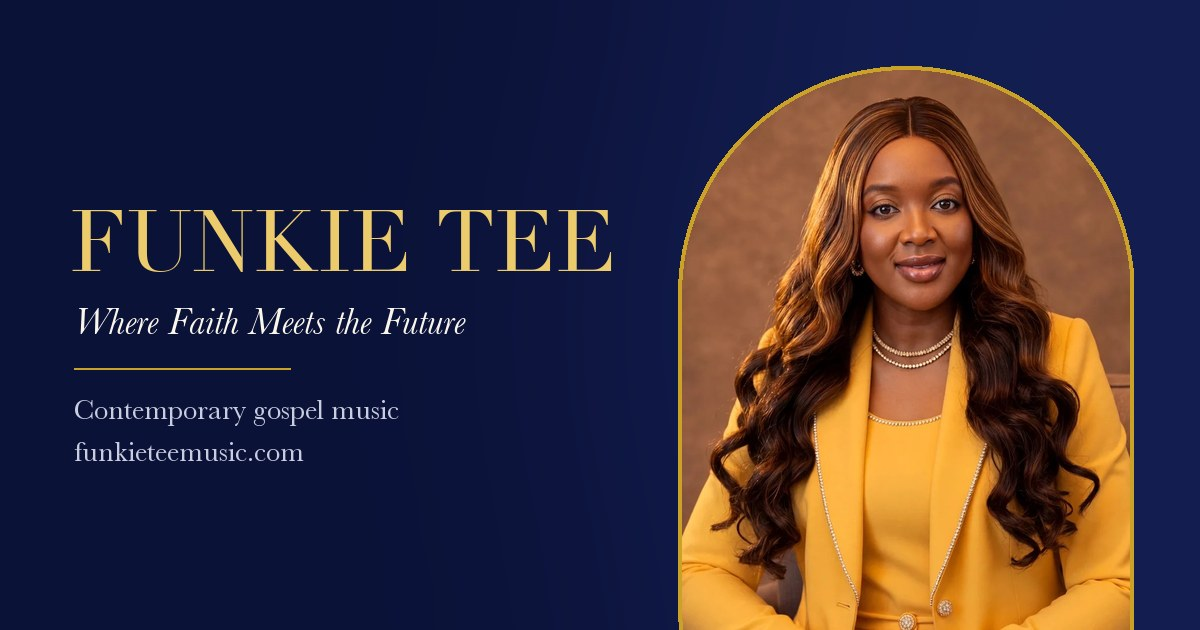
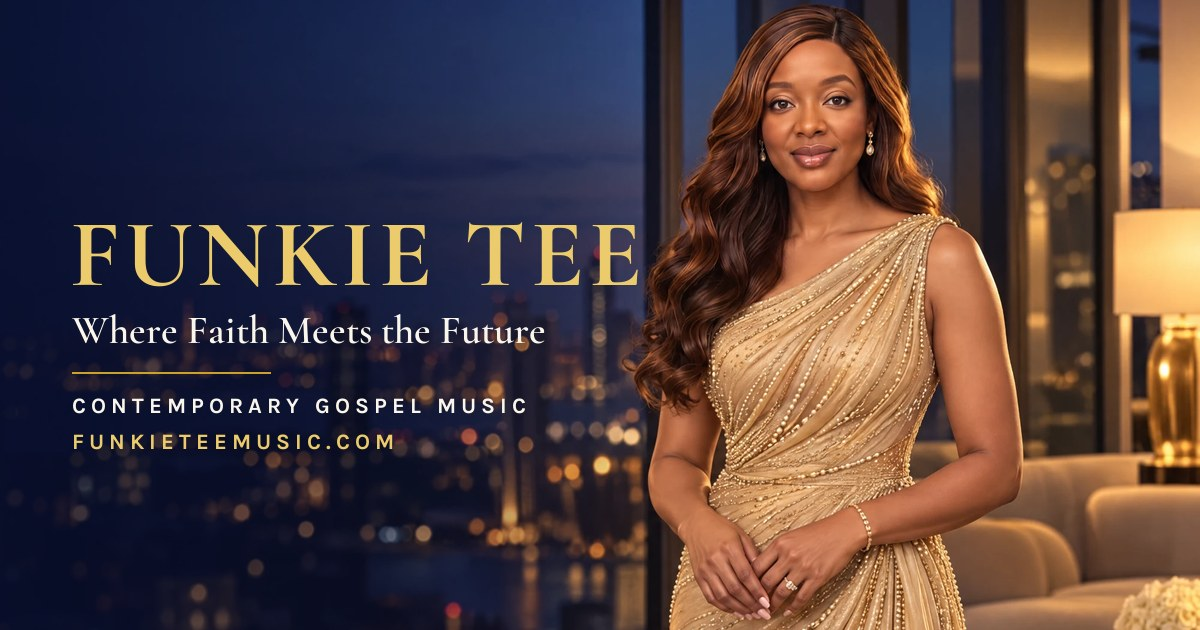
New photography: penthouse hero, rooftop Music header, navy About portrait, new share image

diff --git a/index.html b/index.html
@@ -16,13 +16,13 @@
 <meta property="og:image:height" content="630">
 <meta name="twitter:card" content="summary_large_image">
 <meta name="theme-color" content="#080E2C">
-<script type="application/ld+json">{"@context": "https://schema.org", "@type": "MusicGroup", "name": "Funkie Tee", "url": "https://www.funkieteemusic.com/", "image": "https://www.funkieteemusic.com/img/portrait.jpg", "description": "African contemporary gospel songwriter and creative artist.", "genre": ["Contemporary gospel", "African contemporary Christian", "Praise and worship", "Children's music"], "sameAs": ["https://www.youtube.com/@Funkieteemusic", "https://open.spotify.com/artist/38PxBexr2CgpQjC7OwSqL5", "https://music.apple.com/us/artist/funkie-tee/1867356216", "https://music.amazon.ca/artists/B0GFKVNXMG", "https://www.instagram.com/funkieteemusic", "https://www.tiktok.com/@funkieteemusic", "https://www.facebook.com/funkieteemusic"]}</script>
+<script type="application/ld+json">{"@context": "https://schema.org", "@type": "MusicGroup", "name": "Funkie Tee", "url": "https://www.funkieteemusic.com/", "image": "https://www.funkieteemusic.com/img/hero-wide.jpg", "description": "African contemporary gospel songwriter and creative artist.", "genre": ["Contemporary gospel", "African contemporary Christian", "Praise and worship", "Children's music"], "sameAs": ["https://www.youtube.com/@Funkieteemusic", "https://open.spotify.com/artist/38PxBexr2CgpQjC7OwSqL5", "https://music.apple.com/us/artist/funkie-tee/1867356216", "https://music.amazon.ca/artists/B0GFKVNXMG", "https://www.instagram.com/funkieteemusic", "https://www.tiktok.com/@funkieteemusic", "https://www.facebook.com/funkieteemusic"]}</script>
 <link rel="icon" type="image/png" href="favicon.png">
 <link rel="apple-touch-icon" href="apple-touch-icon.png">
 <link rel="preconnect" href="https://fonts.googleapis.com">
 <link rel="preconnect" href="https://fonts.gstatic.com" crossorigin>
 <link rel="stylesheet" href="https://fonts.googleapis.com/css2?family=Cormorant+Garamond:ital,wght@0,500;0,600;1,500&family=Karla:wght@400;600;700&family=Pinyon+Script&display=swap">
-<link rel="stylesheet" href="css/site.css?v=12">
+<link rel="stylesheet" href="css/site.css?v=14">
 </head>
 <body>
 <a class="skiplink" href="#main">Skip to content</a>
@@ -46,7 +46,8 @@
 </header>
 
 <main id="main">
-<section class="hero" id="top" style="padding-block:0">
+<section class="hero hero-wide" id="top" style="padding-block:0">
+  <picture class="hero-bg"><source media="(max-width:820px)" srcset="img/hero-tall.jpg"><img src="img/hero-wide.jpg" alt="Funkie Tee in a gold beaded gown beside a window over a city at dusk" width="2000" height="1498" fetchpriority="high"></picture>
   <div class="wrap">
     <div class="hero-copy">
       <span class="eyebrow">African contemporary gospel</span>
@@ -59,10 +60,7 @@
         <a class="btn btn-line" href="#about">Discover Funkie Tee</a>
       </div>
     </div>
-    <div class="hero-art">
-      <img src="img/portrait.jpg" alt="Funkie Tee in a gold suit, smiling" width="900" height="1125" fetchpriority="high">
-      <button class="nowpill" type="button" data-play="god-did-it"><span class="np-tag">Out now</span><span class="np-title">God Did It</span><span class="np-play"><svg viewBox="0 0 24 24" aria-hidden="true"><path d="M8 5v14l11-7z"/></svg>Play</span></button>
-    </div>
+    <button class="nowpill" type="button" data-play="god-did-it"><span class="np-tag">Out now</span><span class="np-title">God Did It</span><span class="np-play"><svg viewBox="0 0 24 24" aria-hidden="true"><path d="M8 5v14l11-7z"/></svg>Play</span></button>
   </div>
 </section>
 
@@ -129,7 +127,7 @@
 
 <section class="on-ivory" id="about">
   <div class="wrap about">
-    <figure><img src="img/portrait-about.jpg?v=3" alt="Funkie Tee standing in a rose-pink dress" width="900" height="1613" loading="lazy"></figure>
+    <figure><img src="img/portrait-about.jpg?v=4" alt="Funkie Tee standing in a navy gown with gold detail" width="1000" height="1500" loading="lazy"></figure>
     <div class="stack">
       <span class="eyebrow">The heart behind the music</span>
       <h2 class="voice">An African voice in contemporary gospel, creating songs of faith for a global generation.</h2>
@@ -238,6 +236,6 @@
   <div class="bar" id="p-bar" role="slider" aria-label="Preview progress" aria-valuemin="0" aria-valuemax="100" aria-valuenow="0" tabindex="0"><i id="p-fill"></i></div>
 </div>
 <audio id="audio" preload="none"></audio>
-<script src="js/site.js?v=12" defer></script>
+<script src="js/site.js?v=14" defer></script>
 </body>
 </html>

diff --git a/music.html b/music.html
@@ -16,13 +16,13 @@
 <meta property="og:image:height" content="630">
 <meta name="twitter:card" content="summary_large_image">
 <meta name="theme-color" content="#080E2C">
-<script type="application/ld+json">{"@context": "https://schema.org", "@type": "MusicGroup", "name": "Funkie Tee", "url": "https://www.funkieteemusic.com/", "image": "https://www.funkieteemusic.com/img/portrait.jpg", "description": "African contemporary gospel songwriter and creative artist.", "genre": ["Contemporary gospel", "African contemporary Christian", "Praise and worship", "Children's music"], "sameAs": ["https://www.youtube.com/@Funkieteemusic", "https://open.spotify.com/artist/38PxBexr2CgpQjC7OwSqL5", "https://music.apple.com/us/artist/funkie-tee/1867356216", "https://music.amazon.ca/artists/B0GFKVNXMG", "https://www.instagram.com/funkieteemusic", "https://www.tiktok.com/@funkieteemusic", "https://www.facebook.com/funkieteemusic"]}</script>
+<script type="application/ld+json">{"@context": "https://schema.org", "@type": "MusicGroup", "name": "Funkie Tee", "url": "https://www.funkieteemusic.com/", "image": "https://www.funkieteemusic.com/img/hero-wide.jpg", "description": "African contemporary gospel songwriter and creative artist.", "genre": ["Contemporary gospel", "African contemporary Christian", "Praise and worship", "Children's music"], "sameAs": ["https://www.youtube.com/@Funkieteemusic", "https://open.spotify.com/artist/38PxBexr2CgpQjC7OwSqL5", "https://music.apple.com/us/artist/funkie-tee/1867356216", "https://music.amazon.ca/artists/B0GFKVNXMG", "https://www.instagram.com/funkieteemusic", "https://www.tiktok.com/@funkieteemusic", "https://www.facebook.com/funkieteemusic"]}</script>
 <link rel="icon" type="image/png" href="favicon.png">
 <link rel="apple-touch-icon" href="apple-touch-icon.png">
 <link rel="preconnect" href="https://fonts.googleapis.com">
 <link rel="preconnect" href="https://fonts.gstatic.com" crossorigin>
 <link rel="stylesheet" href="https://fonts.googleapis.com/css2?family=Cormorant+Garamond:ital,wght@0,500;0,600;1,500&family=Karla:wght@400;600;700&family=Pinyon+Script&display=swap">
-<link rel="stylesheet" href="css/site.css?v=12">
+<link rel="stylesheet" href="css/site.css?v=14">
 </head>
 <body>
 <a class="skiplink" href="#main">Skip to content</a>
@@ -269,6 +269,6 @@
   <div class="bar" id="p-bar" role="slider" aria-label="Preview progress" aria-valuemin="0" aria-valuemax="100" aria-valuenow="0" tabindex="0"><i id="p-fill"></i></div>
 </div>
 <audio id="audio" preload="none"></audio>
-<script src="js/site.js?v=12" defer></script>
+<script src="js/site.js?v=14" defer></script>
 </body>
 </html>

diff --git a/css/site.css b/css/site.css
@@ -327,3 +327,25 @@ body.has-player{padding-bottom:96px}
   .pagehead::before{background-position:78% 50%}
   .pagehead::after{background:linear-gradient(180deg,rgba(8,14,44,.82) 0%,rgba(8,14,44,.7) 60%,rgba(8,14,44,.85) 100%)}
 }
+
+/* Hero: full-width photograph, words on the dark sky */
+.hero-wide{position:relative;isolation:isolate;display:flex;align-items:center;min-height:min(88vh,820px);background:var(--night)}
+.hero-bg{position:absolute;inset:0;z-index:-2;display:block}
+.hero-bg img{width:100%;height:100%;object-fit:cover;object-position:80% 10%}
+.hero-wide::before{content:"";position:absolute;inset:0;z-index:-1;background:linear-gradient(90deg,rgba(8,14,44,.9) 0%,rgba(8,14,44,.66) 34%,rgba(8,14,44,.16) 58%,rgba(8,14,44,0) 74%),linear-gradient(180deg,rgba(8,14,44,0) 72%,rgba(8,14,44,.55) 100%)}
+.hero-wide .wrap{display:block;width:100%;padding-block:clamp(64px,9vh,120px)}
+.hero-wide .hero-copy{max-width:600px;padding-bottom:0}
+.hero-wide .nowpill{left:auto;right:clamp(20px,5vw,64px);bottom:28px;transform:none}
+@media (max-width:820px){
+  .hero-wide{display:block;min-height:0}
+  .hero-wide::before{display:none}
+  .hero-bg{position:relative;aspect-ratio:4/4.5;overflow:hidden}
+  .hero-bg::after{content:"";position:absolute;left:0;right:0;bottom:0;height:34%;background:linear-gradient(180deg,rgba(8,14,44,0),var(--night))}
+  .hero-bg img{object-position:50% 0}
+  .hero-wide .wrap{display:flex;flex-direction:column;padding-block:0 44px;margin-top:-34px;position:relative}
+  .hero-wide .nowpill{position:static;order:-1;align-self:flex-start;margin:0 0 1.5rem}
+}
+/* Music page header now uses the rooftop photograph */
+.pagehead::before{background-image:url("../img/music-header.jpg");background-position:82% 38%}
+@media (max-width:820px){.pagehead::before{background-position:76% 38%}}
+@media (max-width:820px){.hero .statement{font-size:5.5vw}}

diff --git a/tools/build.py b/tools/build.py
@@ -11,7 +11,7 @@ IC = json.load(open('data/icons.json'))
 REL = {r['id']: r for r in cat['releases']}
 SONGS = cat['songs']
 e = html.escape
-V = "12"  # bump to refresh cached css/js
+V = "14"  # bump to refresh cached css/js
 
 SITE = 'https://www.funkieteemusic.com/'
 YT = 'https://www.youtube.com/@Funkieteemusic'
@@ -38,7 +38,7 @@ def four(y, s, a, m, cls='plats', amazon='Amazon'):
 def head(title, desc, path, og_title):
     url = SITE + path
     ld = {"@context": "https://schema.org", "@type": "MusicGroup", "name": "Funkie Tee", "url": SITE,
-          "image": SITE + "img/portrait.jpg",
+          "image": SITE + "img/hero-wide.jpg",
           "description": "African contemporary gospel songwriter and creative artist.",
           "genre": ["Contemporary gospel", "African contemporary Christian", "Praise and worship", "Children's music"],
           "sameAs": [YT, SP, AP, AM, IG, TT, FB]}
@@ -184,7 +184,8 @@ home = head('Funkie Tee | Contemporary Gospel Music',
             'Contemporary gospel music by Funkie Tee — songs of faith, testimony, hope and Scripture, including music for children, families and choirs.',
             '', 'Funkie Tee | Contemporary Gospel Music') + header('home') + f'''
 <main id="main">
-<section class="hero" id="top" style="padding-block:0">
+<section class="hero hero-wide" id="top" style="padding-block:0">
+  <picture class="hero-bg"><source media="(max-width:820px)" srcset="img/hero-tall.jpg"><img src="img/hero-wide.jpg" alt="Funkie Tee in a gold beaded gown beside a window over a city at dusk" width="2000" height="1498" fetchpriority="high"></picture>
   <div class="wrap">
     <div class="hero-copy">
       <span class="eyebrow">African contemporary gospel</span>
@@ -197,10 +198,7 @@ home = head('Funkie Tee | Contemporary Gospel Music',
         <a class="btn btn-line" href="#about">Discover Funkie Tee</a>
       </div>
     </div>
-    <div class="hero-art">
-      <img src="img/portrait.jpg" alt="Funkie Tee in a gold suit, smiling" width="900" height="1125" fetchpriority="high">
-      <button class="nowpill" type="button" data-play="god-did-it"><span class="np-tag">Out now</span><span class="np-title">God Did It</span><span class="np-play">{PLAY}Play</span></button>
-    </div>
+    <button class="nowpill" type="button" data-play="god-did-it"><span class="np-tag">Out now</span><span class="np-title">God Did It</span><span class="np-play">{PLAY}Play</span></button>
   </div>
 </section>
 
@@ -238,7 +236,7 @@ home = head('Funkie Tee | Contemporary Gospel Music',
 
 <section class="on-ivory" id="about">
   <div class="wrap about">
-    <figure><img src="img/portrait-about.jpg?v=3" alt="Funkie Tee standing in a rose-pink dress" width="900" height="1613" loading="lazy"></figure>
+    <figure><img src="img/portrait-about.jpg?v=4" alt="Funkie Tee standing in a navy gown with gold detail" width="1000" height="1500" loading="lazy"></figure>
     <div class="stack">
       <span class="eyebrow">The heart behind the music</span>
       <h2 class="voice">An African voice in contemporary gospel, creating songs of faith for a global generation.</h2>
